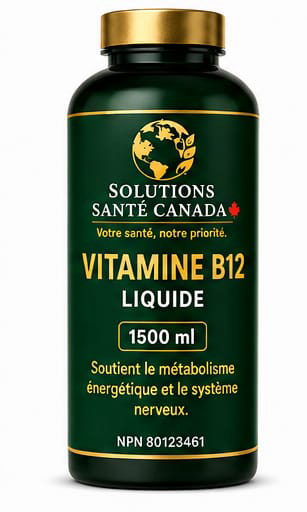
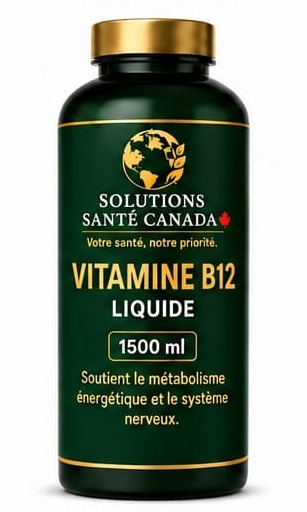
fix(contenu): retirer les numeros NPN des flacons de vitamines liquides
Remplace les 10 photos ssc_*.jpeg par la nouvelle serie sans NPN
(meme format 307x512) et passe leur version a ?v=2 sur l'accueil
et le catalogue pour contourner le cache.

diff --git a/catalogue.html b/catalogue.html
@@ -379,7 +379,7 @@
 
                 <!-- ===== GAMME VITAMINES LIQUIDES (dossier SSC) ===== -->
                 <div class="cat-card" data-cat="vitamines">
-                    <div class="cat-card-header" style="background-image: url('ssc_vitC.jpeg?v=1'); background-size: contain; background-position: center; background-repeat: no-repeat; height: 220px; border-bottom: none; background-color: #fff;"></div>
+                    <div class="cat-card-header" style="background-image: url('ssc_vitC.jpeg?v=2'); background-size: contain; background-position: center; background-repeat: no-repeat; height: 220px; border-bottom: none; background-color: #fff;"></div>
                     <div class="cat-card-body">
                         <span class="cat-tag" style="--tc:#0E7490">Vitamine Liquide</span>
                         <h3>Vitamine C Liquide</h3>
@@ -391,7 +391,7 @@
                 </div>
 
                 <div class="cat-card" data-cat="vitamines">
-                    <div class="cat-card-header" style="background-image: url('ssc_vitD3.jpeg?v=1'); background-size: contain; background-position: center; background-repeat: no-repeat; height: 220px; border-bottom: none; background-color: #fff;"></div>
+                    <div class="cat-card-header" style="background-image: url('ssc_vitD3.jpeg?v=2'); background-size: contain; background-position: center; background-repeat: no-repeat; height: 220px; border-bottom: none; background-color: #fff;"></div>
                     <div class="cat-card-body">
                         <span class="cat-tag" style="--tc:#0E7490">Vitamine Liquide</span>
                         <h3>Vitamine D3 Liquide</h3>
@@ -403,7 +403,7 @@
                 </div>
 
                 <div class="cat-card" data-cat="vitamines">
-                    <div class="cat-card-header" style="background-image: url('ssc_zinc.jpeg?v=1'); background-size: contain; background-position: center; background-repeat: no-repeat; height: 220px; border-bottom: none; background-color: #fff;"></div>
+                    <div class="cat-card-header" style="background-image: url('ssc_zinc.jpeg?v=2'); background-size: contain; background-position: center; background-repeat: no-repeat; height: 220px; border-bottom: none; background-color: #fff;"></div>
                     <div class="cat-card-body">
                         <span class="cat-tag" style="--tc:#0E7490">Vitamine Liquide</span>
                         <h3>Zinc Liquide</h3>
@@ -415,7 +415,7 @@
                 </div>
 
                 <div class="cat-card" data-cat="vitamines">
-                    <div class="cat-card-header" style="background-image: url('ssc_multi.jpeg?v=1'); background-size: contain; background-position: center; background-repeat: no-repeat; height: 220px; border-bottom: none; background-color: #fff;"></div>
+                    <div class="cat-card-header" style="background-image: url('ssc_multi.jpeg?v=2'); background-size: contain; background-position: center; background-repeat: no-repeat; height: 220px; border-bottom: none; background-color: #fff;"></div>
                     <div class="cat-card-body">
                         <span class="cat-tag" style="--tc:#0E7490">Vitamine Liquide</span>
                         <h3>Multivitamines Liquide</h3>
@@ -427,7 +427,7 @@
                 </div>
 
                 <div class="cat-card" data-cat="vitamines">
-                    <div class="cat-card-header" style="background-image: url('ssc_melato.jpeg?v=1'); background-size: contain; background-position: center; background-repeat: no-repeat; height: 220px; border-bottom: none; background-color: #fff;"></div>
+                    <div class="cat-card-header" style="background-image: url('ssc_melato.jpeg?v=2'); background-size: contain; background-position: center; background-repeat: no-repeat; height: 220px; border-bottom: none; background-color: #fff;"></div>
                     <div class="cat-card-body">
                         <span class="cat-tag" style="--tc:#0E7490">Vitamine Liquide</span>
                         <h3>Mélatonine Liquide</h3>
@@ -439,7 +439,7 @@
                 </div>
 
                 <div class="cat-card" data-cat="vitamines">
-                    <div class="cat-card-header" style="background-image: url('ssc_b12.jpeg?v=1'); background-size: contain; background-position: center; background-repeat: no-repeat; height: 220px; border-bottom: none; background-color: #fff;"></div>
+                    <div class="cat-card-header" style="background-image: url('ssc_b12.jpeg?v=2'); background-size: contain; background-position: center; background-repeat: no-repeat; height: 220px; border-bottom: none; background-color: #fff;"></div>
                     <div class="cat-card-body">
                         <span class="cat-tag" style="--tc:#0E7490">Vitamine Liquide</span>
                         <h3>Vitamine B12 Liquide</h3>
@@ -451,7 +451,7 @@
                 </div>
 
                 <div class="cat-card" data-cat="vitamines">
-                    <div class="cat-card-header" style="background-image: url('ssc_bcomplex.jpeg?v=1'); background-size: contain; background-position: center; background-repeat: no-repeat; height: 220px; border-bottom: none; background-color: #fff;"></div>
+                    <div class="cat-card-header" style="background-image: url('ssc_bcomplex.jpeg?v=2'); background-size: contain; background-position: center; background-repeat: no-repeat; height: 220px; border-bottom: none; background-color: #fff;"></div>
                     <div class="cat-card-body">
                         <span class="cat-tag" style="--tc:#0E7490">Vitamine Liquide</span>
                         <h3>B-Complexe Liquide</h3>
@@ -463,7 +463,7 @@
                 </div>
 
                 <div class="cat-card" data-cat="vitamines">
-                    <div class="cat-card-header" style="background-image: url('ssc_hsn.jpeg?v=1'); background-size: contain; background-position: center; background-repeat: no-repeat; height: 220px; border-bottom: none; background-color: #fff;"></div>
+                    <div class="cat-card-header" style="background-image: url('ssc_hsn.jpeg?v=2'); background-size: contain; background-position: center; background-repeat: no-repeat; height: 220px; border-bottom: none; background-color: #fff;"></div>
                     <div class="cat-card-body">
                         <span class="cat-tag" style="--tc:#0E7490">Vitamine Liquide</span>
                         <h3>Hair, Skin &amp; Nails Liquide</h3>
@@ -475,7 +475,7 @@
                 </div>
 
                 <div class="cat-card" data-cat="vitamines">
-                    <div class="cat-card-header" style="background-image: url('ssc_elder.jpeg?v=1'); background-size: contain; background-position: center; background-repeat: no-repeat; height: 220px; border-bottom: none; background-color: #fff;"></div>
+                    <div class="cat-card-header" style="background-image: url('ssc_elder.jpeg?v=2'); background-size: contain; background-position: center; background-repeat: no-repeat; height: 220px; border-bottom: none; background-color: #fff;"></div>
                     <div class="cat-card-body">
                         <span class="cat-tag" style="--tc:#0E7490">Vitamine Liquide</span>
                         <h3>Elderberry (Sureau) Liquide</h3>
@@ -487,7 +487,7 @@
                 </div>
 
                 <div class="cat-card" data-cat="vitamines">
-                    <div class="cat-card-header" style="background-image: url('ssc_collagene.jpeg?v=1'); background-size: contain; background-position: center; background-repeat: no-repeat; height: 220px; border-bottom: none; background-color: #fff;"></div>
+                    <div class="cat-card-header" style="background-image: url('ssc_collagene.jpeg?v=2'); background-size: contain; background-position: center; background-repeat: no-repeat; height: 220px; border-bottom: none; background-color: #fff;"></div>
                     <div class="cat-card-body">
                         <span class="cat-tag" style="--tc:#0E7490">Vitamine Liquide</span>
                         <h3>Collagène Liquide</h3>

diff --git a/index.html b/index.html
@@ -212,7 +212,7 @@
             <div class="produits-grid produits-grid--photos">
 
                 <div class="produit-card produit-card--photo reveal-up" style="--d:.1s">
-                    <div class="produit-photo" style="background-image:url('ssc_vitC.jpeg?v=1')"></div>
+                    <div class="produit-photo" style="background-image:url('ssc_vitC.jpeg?v=2')"></div>
                     <div class="produit-badge">Liquide</div>
                     <h3>Vitamine C Liquide</h3>
                     <p>Soutient le système immunitaire, aide à réduire la fatigue. 1500 ml.</p>
@@ -223,7 +223,7 @@
                 </div>
 
                 <div class="produit-card produit-card--photo reveal-up" style="--d:.15s">
-                    <div class="produit-photo" style="background-image:url('ssc_vitD3.jpeg?v=1')"></div>
+                    <div class="produit-photo" style="background-image:url('ssc_vitD3.jpeg?v=2')"></div>
                     <div class="produit-badge">Liquide</div>
                     <h3>Vitamine D3 Liquide</h3>
                     <p>Favorise la santé osseuse et soutient l'immunité. 1500 ml.</p>
@@ -234,7 +234,7 @@
                 </div>
 
                 <div class="produit-card produit-card--photo reveal-up" style="--d:.2s">
-                    <div class="produit-photo" style="background-image:url('ssc_zinc.jpeg?v=1')"></div>
+                    <div class="produit-photo" style="background-image:url('ssc_zinc.jpeg?v=2')"></div>
                     <div class="produit-badge">Liquide</div>
                     <h3>Zinc Liquide</h3>
                     <p>Soutient le système immunitaire, aide la cicatrisation et la santé de la peau. 1500 ml.</p>
@@ -245,7 +245,7 @@
                 </div>
 
                 <div class="produit-card produit-card--photo reveal-up" style="--d:.25s">
-                    <div class="produit-photo" style="background-image:url('ssc_multi.jpeg?v=1')"></div>
+                    <div class="produit-photo" style="background-image:url('ssc_multi.jpeg?v=2')"></div>
                     <div class="produit-badge">Liquide</div>
                     <h3>Multivitamines Liquide</h3>
                     <p>Formule complète, énergie et vitalité au quotidien. 1500 ml.</p>
@@ -256,7 +256,7 @@
                 </div>
 
                 <div class="produit-card produit-card--photo reveal-up" style="--d:.3s">
-                    <div class="produit-photo" style="background-image:url('ssc_melato.jpeg?v=1')"></div>
+                    <div class="produit-photo" style="background-image:url('ssc_melato.jpeg?v=2')"></div>
                     <div class="produit-badge">Liquide</div>
                     <h3>Mélatonine Liquide</h3>
                     <p>Aide à s'endormir plus rapidement, améliore la qualité du sommeil. 1500 ml.</p>
@@ -267,7 +267,7 @@
                 </div>
 
                 <div class="produit-card produit-card--photo reveal-up" style="--d:.35s">
-                    <div class="produit-photo" style="background-image:url('ssc_b12.jpeg?v=1')"></div>
+                    <div class="produit-photo" style="background-image:url('ssc_b12.jpeg?v=2')"></div>
                     <div class="produit-badge">Liquide</div>
                     <h3>Vitamine B12 Liquide</h3>
                     <p>Booster naturel contre la fatigue, améliore la concentration. 1500 ml.</p>
@@ -278,7 +278,7 @@
                 </div>
 
                 <div class="produit-card produit-card--photo reveal-up" style="--d:.4s">
-                    <div class="produit-photo" style="background-image:url('ssc_bcomplex.jpeg?v=1')"></div>
+                    <div class="produit-photo" style="background-image:url('ssc_bcomplex.jpeg?v=2')"></div>
                     <div class="produit-badge">Liquide</div>
                     <h3>B-Complexe Liquide</h3>
                     <p>Idéal pour le stress et la fatigue chronique, soutient le système nerveux. 1500 ml.</p>
@@ -289,7 +289,7 @@
                 </div>
 
                 <div class="produit-card produit-card--photo reveal-up" style="--d:.45s">
-                    <div class="produit-photo" style="background-image:url('ssc_hsn.jpeg?v=1')"></div>
+                    <div class="produit-photo" style="background-image:url('ssc_hsn.jpeg?v=2')"></div>
                     <div class="produit-badge">Liquide</div>
                     <h3>Hair, Skin &amp; Nails Liquide</h3>
                     <p>Renforce les cheveux, la peau et les ongles. Formule naturelle complète. 1500 ml.</p>
@@ -300,7 +300,7 @@
                 </div>
 
                 <div class="produit-card produit-card--photo reveal-up" style="--d:.5s">
-                    <div class="produit-photo" style="background-image:url('ssc_elder.jpeg?v=1')"></div>
+                    <div class="produit-photo" style="background-image:url('ssc_elder.jpeg?v=2')"></div>
                     <div class="produit-badge best">Populaire</div>
                     <h3>Elderberry (Sureau) Liquide</h3>
                     <p>Anti-viral naturel, renforce l'immunité contre rhumes et grippes. 1500 ml.</p>
@@ -311,7 +311,7 @@
                 </div>
 
                 <div class="produit-card produit-card--photo reveal-up" style="--d:.55s">
-                    <div class="produit-photo" style="background-image:url('ssc_collagene.jpeg?v=1')"></div>
+                    <div class="produit-photo" style="background-image:url('ssc_collagene.jpeg?v=2')"></div>
                     <div class="produit-badge">Liquide</div>
                     <h3>Collagène Liquide</h3>
                     <p>Santé de la peau et des articulations, formule à absorption rapide. 1500 ml.</p>
